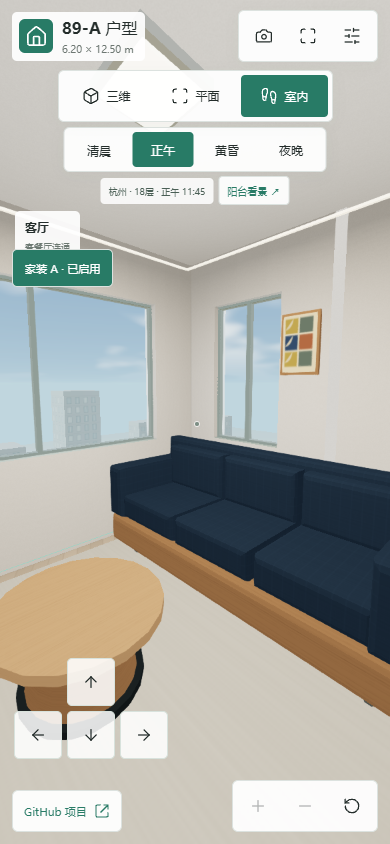
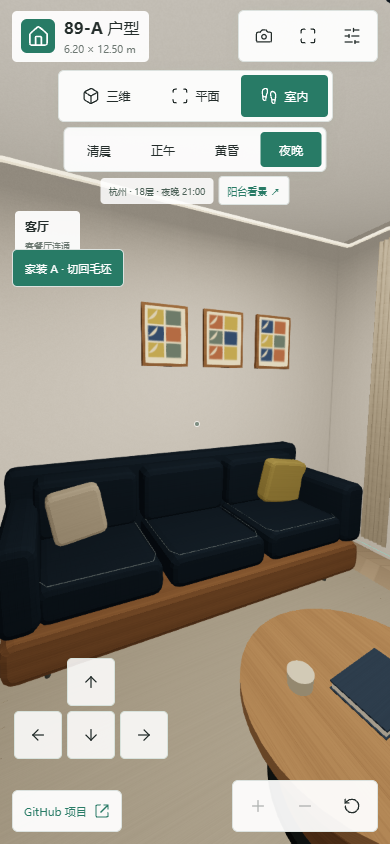
Record V13.1 deployment and night hinged defaults validation

diff --git a/context/DEPLOYMENT.md b/context/DEPLOYMENT.md
@@ -48,3 +48,11 @@ README改为“杭州·璞荟铭庭”，小区资料、来源与差异记录在
 390×844 Android 微信 UA 模拟：V13、方案 A 自动启用、219/219 贴图、设置默认关闭、无溢出、JS/Shader 错误或外部依赖请求；可切回原有方案，参考图与截图预览正常。另直接打开磁盘上的单 HTML，方案 A 与全部烘焙图正常，云配置仍为空。记录为 `validation/decor-a-public.json`，截图为 `decor-a-public-mobile.png`。仍未测试微信真机。
 
 9 张分类原图在 `references/interior/preset-a/`；8 张实际场景 PNG、总览和相机数据在 `assets/interior/preset-a/`，已随功能提交推送。建筑几何、平面图、原有日光数据未变；具体局部填光和房间定位限制见方案说明。
+
+## V13.1 布局、毛坯与新默认已发布
+
+功能提交 `3aaa4cb` 修正 A 客厅为北侧电视/南侧沙发、床头与衣柜贴墙、家具细节及毛坯方案，并将阳台西侧改为全高实墙后重烘焙。随后 `ae4d030` 将默认时段设为夜晚，7扇入户/房间门默认平开；四扇房门仍可选吊轨推拉，个人已保存的选择继续恢复。SVG/PDF/PNG门符号与网页默认同步。
+
[1 lines of base64/hex data omitted]
+
+本地完整检查见 `validation/decor-a-validation.json`：几何133mesh/roof130一致、屋顶0缺口、家具及全部可选门型无碰撞；毛坯无家具、独立材质保存/迁移、默认夜晚/平开和个人覆盖选择刷新通过；320×740、390×844、740×360、568×320及旋转模拟通过。9张更新场景截图在 `assets/interior/preset-a/`，9张用户JPG字节保持。公网记录为 `validation/decor-a-public.json`，截图为 `decor-a-public-mobile.png`。仍未测试手机微信真机。

diff --git a/context/HANDOFF.md b/context/HANDOFF.md
@@ -152,3 +152,5 @@ README改为“杭州·璞荟铭庭”，包括在线体验、项目介绍、平
 - 已更新SVG/PDF/PNG及9张实际场景导出、captures.json与preview.webp。9张用户JPG字节及SHA256仍与原文件一致。最终HTML约3.48MB，WebGL1、自包含、云配置仍为空。
 
 用户随后要求默认夜晚、所有门默认平开，覆盖前述默认推拉：初始daylight为night，7扇可设置的入户/房间门均hinged；四扇仍可手动切换推拉。`plan-layout.json.defaultDoorType`为图纸与网页默认门型共同入口，平面图门符号同步。阳台原建筑玻璃滑门保持原图构造。个人已保存的时间/门型继续恢复。此默认值变更不改建筑烘焙几何，不需要再次烘焙；浏览器仍逐项核对快照。
+
+功能提交 `3aaa4cb` 与默认值提交 `ae4d030` 已推送，Pages成功构建后公开HTML与本地规范化SHA256一致。390×844微信UA公网检查：V13.1/night/7门hinged/219图、设置收起、无溢出/错误/额外资源请求；切换/相册/截图通过。磁盘单HTML与公开SVG/PDF亦通过。证据在 `validation/decor-a-public.json` 和发布文档中。本地完整检查还验证个人选择dusk/sliding可刷新恢复。后续仍需真机微信核验。
